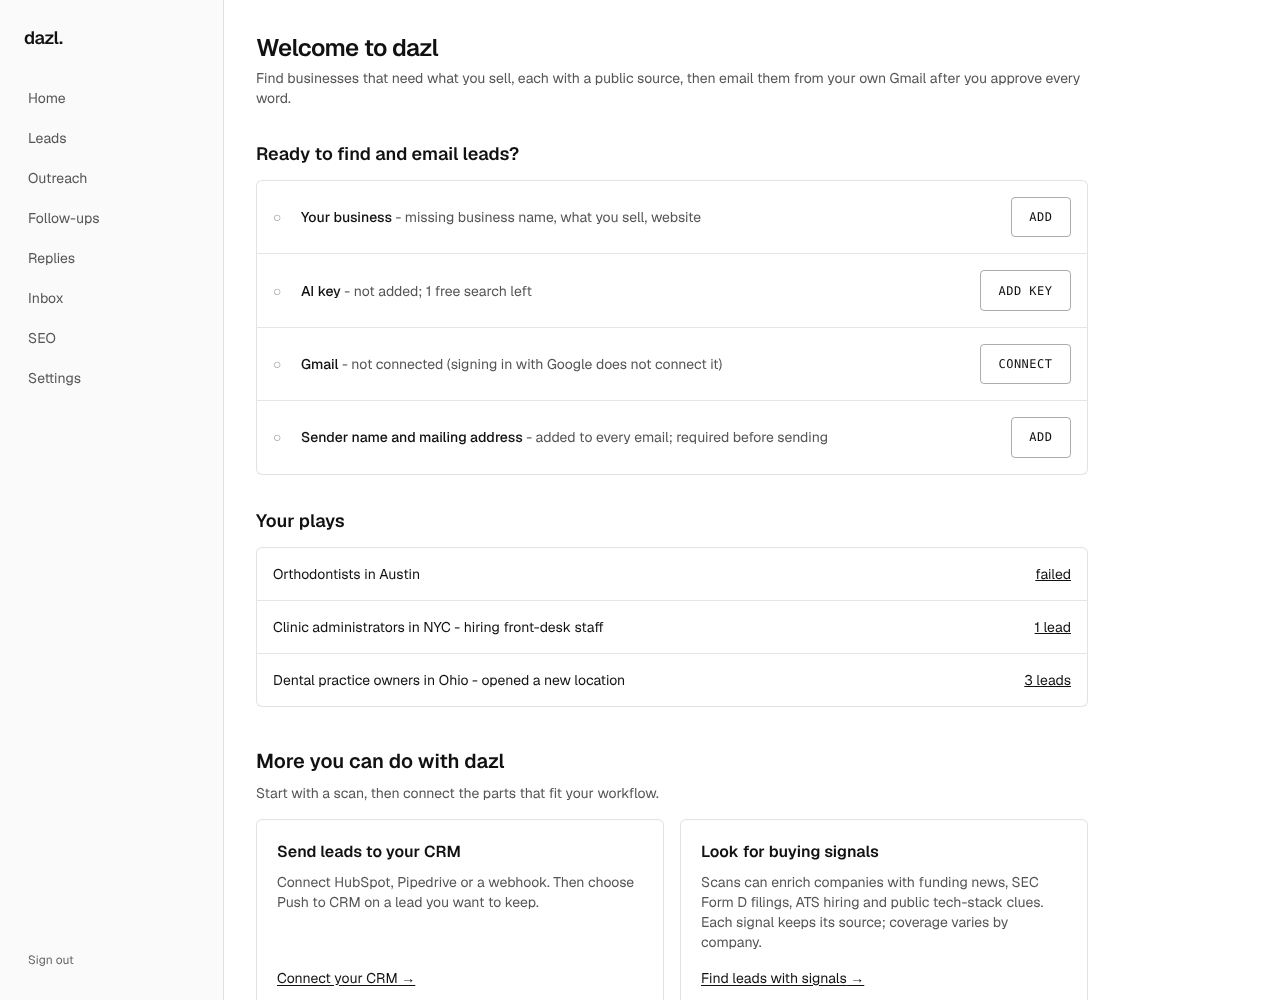
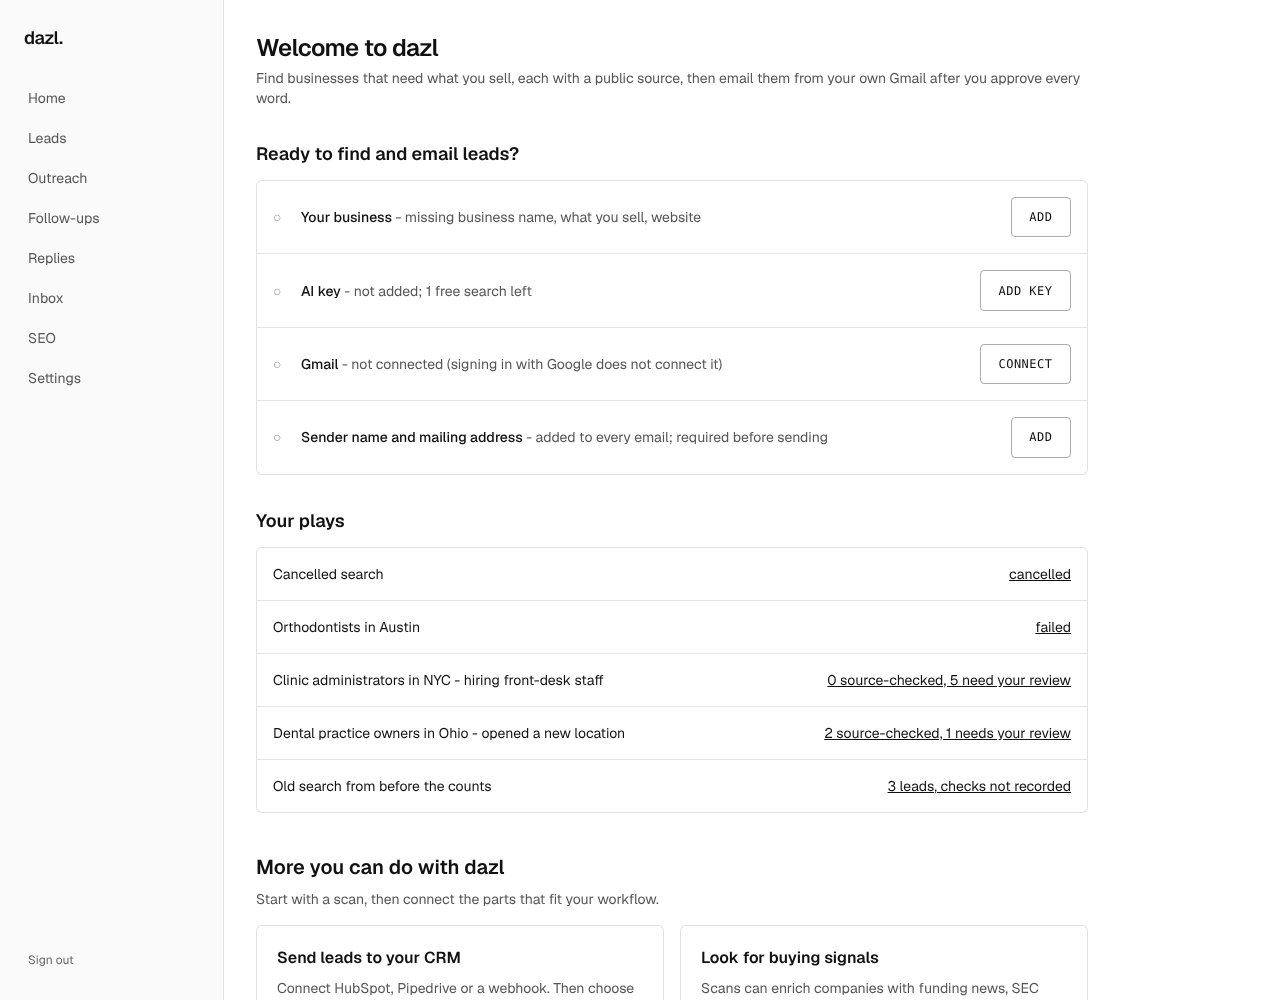
Home plays: source-checked and needs-review counts, never a bare lead total
Instinct's review of c876163: a finished search with verified 0 / needs_review
5 showed "5 leads" on Home, presenting research-only leads as yield.

- recentPlays reports "N source-checked, M need your review" (the Leads
  history's words); old records without counts read "N leads, checks not
  recorded"; failed with error 'cancelled' reads "cancelled".
- Unit fixtures: all-review (the NYC shape), mixed, singular, all-zero, old
  record, cancelled, failed. UI check asserts the rendered rows and that no
  play reads "5 leads"; screenshots refreshed.

Claude-Session: https://claude.ai/code/session_01CafonXdzjwkFYiMRJWtsKo

diff --git a/web/test/readiness.test.ts b/web/test/readiness.test.ts
@@ -32,7 +32,19 @@ test('Gmail that needs reconnecting and a half-filled sender are to-dos', () => 
 })
 
 test('plays: own searches newest first with their outcome; imports and fixtures excluded', () => {
-  const j = (id: string, created_at: number, o: object = {}) => ({ id, status: 'done', error: null, query: `q${id}`, csv_domain: null, created_at, lead_count: 3, ...o })
-  const p = recentPlays([j('1', 1), j('2', 3, { status: 'failed' }), j('3', 2, { lead_count: 1 }), j('4', 4, { csv_domain: 'acme.com' }), j('5', 5, { test_only: true }), j('6', 6, { status: 'running', query: null })])
-  assert.deepEqual(p, [{ id: '2', query: 'q2', outcome: 'failed' }, { id: '3', query: 'q3', outcome: '1 lead' }, { id: '1', query: 'q1', outcome: '3 leads' }])
+  const j = (id: string, created_at: number, o: object = {}) => ({ id, status: 'done', error: null, query: `q${id}`, csv_domain: null, created_at, lead_count: 3, verified: 3, needs_review: 0, ...o })
+  const p = recentPlays([j('1', 1), j('2', 3, { status: 'failed' }), j('3', 2, { lead_count: 1, verified: 1 }), j('4', 4, { csv_domain: 'acme.com' }), j('5', 5, { test_only: true }), j('6', 6, { status: 'running', query: null })])
+  assert.deepEqual(p, [{ id: '2', query: 'q2', outcome: 'failed' }, { id: '3', query: 'q3', outcome: '1 source-checked, 0 need your review' }, { id: '1', query: 'q1', outcome: '3 source-checked, 0 need your review' }])
+})
+
+// Instinct #234: a finished search whose leads are all research-only must not read as "5 leads" of yield.
+test('plays never present research-only leads as yield; old records and cancelled runs say what they are', () => {
+  const j = (o: object) => recentPlays([{ id: 'x', status: 'done', error: null, query: 'q', csv_domain: null, created_at: 1, lead_count: 5, ...o }])[0].outcome
+  assert.equal(j({ verified: 0, needs_review: 5 }), '0 source-checked, 5 need your review', 'the real NYC shape: all five need review')
+  assert.equal(j({ verified: 2, needs_review: 3 }), '2 source-checked, 3 need your review')
+  assert.equal(j({ verified: 0, needs_review: 1, lead_count: 1 }), '0 source-checked, 1 needs your review')
+  assert.equal(j({ verified: 0, needs_review: 0, lead_count: 0 }), '0 source-checked, 0 need your review')
+  assert.equal(j({ verified: null, needs_review: null }), '5 leads, checks not recorded', 'old record: never a bare yield number')
+  assert.equal(j({ status: 'failed', error: 'cancelled' }), 'cancelled')
+  assert.equal(j({ status: 'failed', error: 'no_candidates' }), 'failed')
 })

diff --git a/web/lib/readiness.ts b/web/lib/readiness.ts
@@ -29,13 +29,23 @@ export function readinessRows(i: ReadinessInput): Row[] {
   return [site, key, gmail, sender]
 }
 
-export interface JobRow { id: string; status: string; error: string | null; query: string | null; csv_domain: string | null; created_at: number; lead_count: number; test_only?: boolean }
+export interface JobRow { id: string; status: string; error: string | null; query: string | null; csv_domain: string | null; created_at: number; lead_count: number; verified?: number | null; needs_review?: number | null; test_only?: boolean }
 export interface Play { id: string; query: string; outcome: string }
 
 // The account's own searches, newest first, with what each produced. Imports and test fixtures are not plays.
+// A finished search reports source-checked and needs-review counts separately (the same words as the Leads history):
+// research-only leads are never shown as yield. Older records without those counts say so instead of a bare total.
 export function recentPlays(jobs: JobRow[], limit = 5): Play[] {
   return jobs.filter(j => j.query && !j.csv_domain && !j.test_only)
     .sort((a, b) => b.created_at - a.created_at)
     .slice(0, limit)
-    .map(j => ({ id: j.id, query: j.query!, outcome: j.status === 'done' ? `${j.lead_count} lead${j.lead_count === 1 ? '' : 's'}` : j.status === 'failed' ? 'failed' : 'running' }))
+    .map(j => ({ id: j.id, query: j.query!, outcome: outcomeOf(j) }))
+}
+
+function outcomeOf(j: JobRow): string {
+  if (j.status === 'failed') return j.error === 'cancelled' ? 'cancelled' : 'failed'
+  if (j.status !== 'done') return 'running'
+  if (j.verified == null && j.needs_review == null) return `${j.lead_count} lead${j.lead_count === 1 ? '' : 's'}, checks not recorded`
+  const review = j.needs_review ?? 0
+  return `${j.verified ?? 0} source-checked, ${review} need${review === 1 ? 's' : ''} your review`
 }
